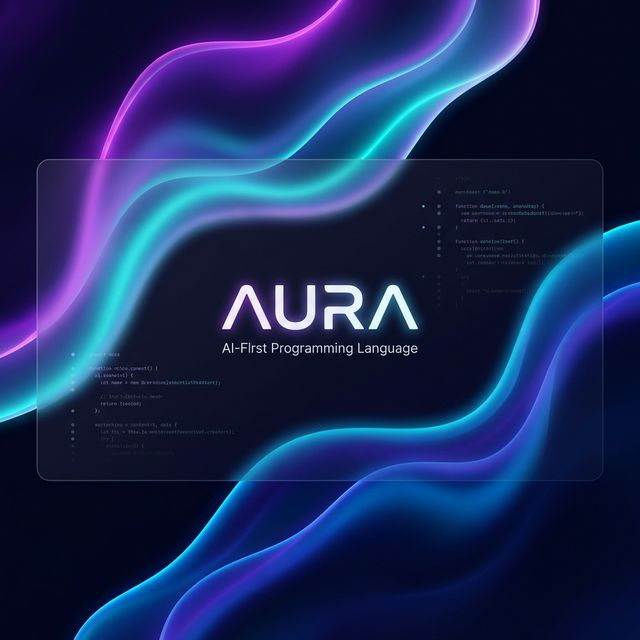
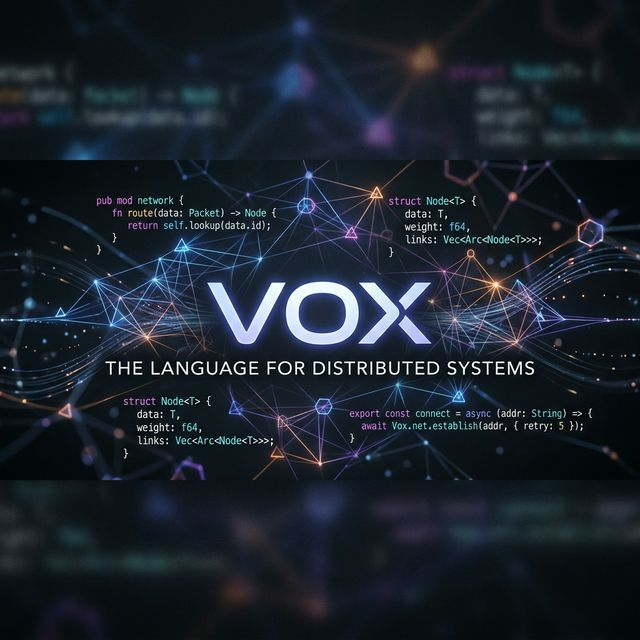
chore: migrate github remote namespace from brbrainerd to vox-foundation codebase-wide

diff --git a/crates/vox-runtime/src/populi.rs b/crates/vox-runtime/src/populi.rs
@@ -5,7 +5,7 @@
 //!
 //! ## Modes
 //! - **Local**: `http://localhost:11434` (Ollama-compatible API)
-//! - **Remote**: `https://raw.githubusercontent.com/brbrainerd/vox/main/populi` (configurable)
+//! - **Remote**: `https://raw.githubusercontent.com/vox-foundation/vox/main/populi` (configurable)
 
 use serde::{Deserialize, Serialize};
 use thiserror::Error;
@@ -33,7 +33,7 @@ pub enum PopuliError {
 /// Configuration for connecting to Populi.
 #[derive(Debug, Clone)]
 pub struct PopuliConfig {
-    /// Base URL of the Populi API (e.g., `http://localhost:11434` or `https://raw.githubusercontent.com/brbrainerd/vox/main/populi`).
+    /// Base URL of the Populi API (e.g., `http://localhost:11434` or `https://raw.githubusercontent.com/vox-foundation/vox/main/populi`).
     pub base_url: String,
     /// Optional API key for remote authentication.
     pub api_key: Option<String>,

diff --git a/crates/vox-cli/src/commands/diagnostics/doctor/checks_standard.rs b/crates/vox-cli/src/commands/diagnostics/doctor/checks_standard.rs
@@ -370,7 +370,7 @@ pub async fn run_checks(auto_heal: bool, test_health: bool, checks: &mut Vec<Che
     {
         println!("  [auto-heal] Creating default Vox configuration...");
         let _ = tokio::fs::create_dir_all(dir).await;
-        let default_config = "[registry]\nurl = \"https://raw.githubusercontent.com/brbrainerd/vox/main/registry\"\n";
+        let default_config = "[registry]\nurl = \"https://raw.githubusercontent.com/vox-foundation/vox/main/registry\"\n";
         if tokio::fs::write(dir.join("config.toml"), default_config)
             .await
             .is_ok()

diff --git a/crates/vox-cli/src/commands/diagnostics/tools/search.rs b/crates/vox-cli/src/commands/diagnostics/tools/search.rs
@@ -3,7 +3,7 @@ use anyhow::Result;
 /// `vox search <query>` — search the VoxPM registry for packages.
 pub async fn run(query: &str, registry_url: Option<&str>) -> Result<()> {
     let url =
-        registry_url.unwrap_or("https://raw.githubusercontent.com/brbrainerd/vox/main/registry");
+        registry_url.unwrap_or("https://raw.githubusercontent.com/vox-foundation/vox/main/registry");
     let client = vox_pm::RegistryClient::new(url);
 
     println!("Searching for `{query}`...\n");

diff --git a/crates/vox-cli/src/commands/info.rs b/crates/vox-cli/src/commands/info.rs
@@ -3,7 +3,7 @@ use anyhow::Result;
 /// `vox info <package>` — display package information.
 pub async fn run(package_name: &str, registry_url: Option<&str>) -> Result<()> {
     let url =
-        registry_url.unwrap_or("https://raw.githubusercontent.com/brbrainerd/vox/main/registry");
+        registry_url.unwrap_or("https://raw.githubusercontent.com/vox-foundation/vox/main/registry");
     let client = vox_pm::RegistryClient::new(url);
 
     match client.info(package_name).await {

diff --git a/crates/vox-cli/src/commands/login.rs b/crates/vox-cli/src/commands/login.rs
@@ -105,7 +105,7 @@ async fn interactive_wizard(default_registry: &str) -> Result<(String, String, O
         println!("  Get a key here: \x1b[36mhttps://openrouter.ai/settings/keys\x1b[0m");
     } else if registry == "voxpm" {
         println!("  \x1b[1mVoxPM\x1b[0m requires an API token to publish packages.");
-        println!("  Copy token from: \x1b[36mhttps://github.com/brbrainerd/vox/settings\x1b[0m");
+        println!("  Copy token from: \x1b[36mhttps://github.com/vox-foundation/vox/settings\x1b[0m");
     }
 
     println!();

diff --git a/crates/vox-cli/src/commands/publish.rs b/crates/vox-cli/src/commands/publish.rs
@@ -8,7 +8,7 @@ pub async fn run(registry_url: Option<&str>) -> Result<()> {
         .map_err(|e| anyhow::anyhow!("{e}"))
         .with_context(|| "No Vox.toml found. Nothing to publish.")?;
 
-    let url = registry_url.unwrap_or("https://raw.githubusercontent.com/brbrainerd/vox/main/registry");
+    let url = registry_url.unwrap_or("https://raw.githubusercontent.com/vox-foundation/vox/main/registry");
 
     // Read auth token
     let token_path = dirs_path().join("auth_token");

diff --git a/crates/vox-cli/src/commands/search.rs b/crates/vox-cli/src/commands/search.rs
@@ -2,7 +2,7 @@ use anyhow::Result;
 
 /// `vox search <query>` — search the VoxPM registry for packages.
 pub async fn run(query: &str, registry_url: Option<&str>) -> Result<()> {
-    let url = registry_url.unwrap_or("https://raw.githubusercontent.com/brbrainerd/vox/main/registry");
+    let url = registry_url.unwrap_or("https://raw.githubusercontent.com/vox-foundation/vox/main/registry");
     let client = vox_pm::RegistryClient::new(url);
 
     println!("Searching for `{query}`...\n");

diff --git a/crates/vox-ludus/src/ai.rs b/crates/vox-ludus/src/ai.rs
@@ -512,7 +512,7 @@ impl FreeAiClient {
             match http
                 .post(OPENROUTER_BASE)
                 .header("Authorization", format!("Bearer {}", resolved_key))
-                .header("HTTP-Referer", "https://github.com/brbrainerd/vox")
+                .header("HTTP-Referer", "https://github.com/vox-foundation/vox")
                 .header("X-Title", "Vox Gamify")
                 .json(&body)
                 .send()

diff --git a/crates/vox-skills/src/lib.rs b/crates/vox-skills/src/lib.rs
@@ -37,7 +37,7 @@ pub use registry::{InstallResult, SkillRegistry, UninstallResult};
 
 /// The canonical Vox Skills marketplace registry URL.
 pub const SKILLS_REGISTRY_BASE: &str =
-    "https://raw.githubusercontent.com/brbrainerd/vox/main/skills";
+    "https://raw.githubusercontent.com/vox-foundation/vox/main/skills";
 
 /// Errors from the skill system.
 #[derive(Debug, thiserror::Error)]

diff --git a/crates/vox-toestub/src/review/formatters.rs b/crates/vox-toestub/src/review/formatters.rs
@@ -126,7 +126,7 @@ pub fn format_sarif(result: &ReviewResult) -> String {
                 "id": format!("vox-review/{}", cat.rule_prefix()),
                 "name": cat.to_string(),
                 "shortDescription": { "text": format!("vox review: {}", cat) },
-                "helpUri": "https://github.com/brbrainerd/vox"
+                "helpUri": "https://github.com/vox-foundation/vox"
             })
         })
         .collect();

diff --git a/crates/vox-toestub/src/review/providers.rs b/crates/vox-toestub/src/review/providers.rs
@@ -64,7 +64,7 @@ pub fn default_openrouter_model() -> String {
 }
 /// `HTTP-Referer` value required by OpenRouter; embedded in serde defaults for configs.
 pub fn default_site_url() -> String {
-    "https://github.com/brbrainerd/vox".to_string()
+    "https://github.com/vox-foundation/vox".to_string()
 }
 /// Default OpenAI chat model when `OPENAI_MODEL` is unset.
 pub fn default_openai_model() -> String {

diff --git a/README.md b/README.md
@@ -1,42 +1,38 @@
 <div align="center">
   <img src="docs/src/assets/logo.png" alt="Vox Logo" width="200" height="auto" />
   <h1>Vox Programming Language</h1>
-  <p><strong>The Native Language of the AI Era.</strong></p>
+  <p><strong>A Full-Stack, AI-Native Systems Language.</strong></p>
 </div>
 
-<img src="docs/src/assets/hero_bg.png" alt="Vox Hero" width="100%" />
+<img src="docs/src/assets/hero_bg.png" alt="Vox Hero Banner" width="100%" />
 
 > *"Is it a fact — or have I dreamt it — that, by means of electricity, the world of matter has become a great nerve, vibrating thousands of miles in a breathless point of time? Rather, the round globe is a vast head, a brain, instinct with intelligence! Or, shall we say, it is itself a thought, nothing but thought, and no longer the substance which we deemed it!"*  
 > — **Nathaniel Hawthorne**, *The House of the Seven Gables* (1851)
 
 ---
 
-## The Vox Ecosystem
+## What is Vox?
 
-Vox is an aggressively type-safe, AI-native systems language that compiles directly into high-performance **Rust (Tokio/Axum)** on the backend and **TypeScript (React)** on the frontend. 
+Vox is a statically typed programming language that compiles to Rust (Tokio/Axum) for the backend and TypeScript (React) for the frontend. It is designed to combine system-level performance with the integrated developer experience of modern web frameworks. 
 
-But it’s far more than just a programming language. It is a unified, end-to-end framework designed from the ground up for small engineering teams and autonomous AI agents building modern, distributed, intelligence-driven software.
+By unifying the database schema, server logic, and user interface into a single syntax, Vox removes the boundary between the frontend and backend. It is explicitly designed to be easily generated and reasoned about by large language models, featuring minimal syntax and a strict type system.
 
-### Why Adopt Vox?
+### Ecosystem Components
 
-Vox solves the core friction points of modern development by unifying your entire stack. It is engineered both for exceptional developer ergonomics—reducing cognitive load for humans—and strict predictability—eliminating ambiguity for Large Language Models.
+Vox consists of three primary subsystems:
 
-Here are the dimensions that make the Vox ecosystem unmatched:
-
-- **Unmatched Developer Ergonomics**: Define your data schema, your frontend React components, and your backend server logic in a single, cohesive file. Avoid the boilerplate of GraphQL schemas, ORMs, and context-switching between different repositories.
-- **Vox Dei (Distributed Execution Intelligence)**: The orchestrator is built straight into the system. Vox Dei provides transparent agent-to-agent messaging protocols and real-time execution recording. Building complex, durable workflow orchestration is no longer an infrastructure challenge; it is a native language primitive. 
-- **Vox Populi (Native ML)**: Vox features a completely native Rust/Burn machine learning ecosystem. You can execute high-throughput inference, perform QLoRA fine-tuning, and coordinate model states directly from the language workspace, bridging the gap between application logic and raw tensor performance.
-- **Zero-Null Type Safety (No Bugs)**: `null` and `undefined` states are unconditionally banned. Vox enforces rigorous, exhaustive pattern matching via Algebraic Data Types (ADTs) and `Option[T]`. This absolutely guarantees no sudden runtime NPE crashes, creating an ironclad predictability contract that ensures AI coding agents output flawless syntax.
-- **A Fully-Loaded CLI Hub**: The `vox` CLI acts as your command center. Access instantaneous local live-reloading (`vox build`), compile highly-optimized statically linked applications (`vox bundle`), trace execution routes, and manage LLM data pipelines all from one terminal window.
+1. **The Core Language**: A unified syntax with Algebraic Data Types (ADTs) and exhaustiveness checking. Null values (`null`, `undefined`) are banned in favor of `Option[T]` and `Result[T, E]`. This prevents null pointer exceptions and provides a strict contract for code generation.
+2. **Vox Dei (Orchestrator)**: The runtime includes a distributed execution engine. It provides primitives for persistent state, retry mechanisms, and transparent agent-to-agent messaging. Workflows are durable by default, meaning execution state survives process restarts.
+3. **Vox Populi (Native ML)**: A native machine learning layer built on Rust and Burn. It allows you to run high-throughput inference and execute QLoRA fine-tuning directly from the CLI without depending on external Python toolchains.
 
 ---
 
-## Code That Looks Like Magic (v0.3 Brace Syntax)
+## Language Features by Example
 
-With the modernized v0.2/v0.3 brace syntax, writing code feels intuitive, lightweight, and structured. 
+The v0.2/v0.3 brace syntax uses explicit blocks and a clear separation of concerns within a single file. 
 
-### 1. Unified Types and Server Logic
-No external ORMs needed. Your types safely map to the embedded SQLite backend through the `db.` API.
+### 1. Data Layer and Backend Functions
+Vox replaces external ORMs and migration scripts with the `@table` decorator. Types are mapped directly to an embedded SQLite database, making the data store accessible natively via the built-in `db` module.
 
 ```vox
 type UserStatus = 
@@ -45,104 +41,115 @@ type UserStatus =
     | Pending
 
 @table type Task {
+    id: int
     title: str
     done: bool
+    status: UserStatus
 }
 
-@server fn toggle_task(id: int) to Result[Unit] {
-    let task = db.query_one("SELECT * FROM Task WHERE id = ?", id)
-    db.execute("UPDATE Task SET done = ? WHERE id = ?", !task.done, id)
+// Server functions compile to Axum HTTP endpoints.
+@server fn toggle_task(task_id: int) to Result[Unit] {
+    let task = db.query_one("SELECT * FROM Task WHERE id = ?", task_id)
+    db.execute("UPDATE Task SET done = ? WHERE id = ?", !task.done, task_id)
     ret Ok(())
 }
 ```
 
-### 2. Frontend Components and Clean Routing
-Components fluidly return JSX blocks without verbose `render` functions. Define your frontend layout alongside your logic, and attach top-level routes seamlessly.
+### 2. Frontend Reactivity
+Frontend components compile to React and emit zero-runtime CSS. Because the frontend and backend share the same type system, data fetching is type-safe by default.
 
 ```vox
 import react.use_state
 
-@component fn TaskItem(task: Task) to Element {
-    let (checked, set_checked) = use_state(task.done)
+// Components seamlessly call backend functions.
+@component fn TaskList(initial_tasks: List[Task]) to Element {
+    let (tasks, set_tasks) = use_state(initial_tasks)
     
-    <div class="task-ui">
-        <input 
-            type="checkbox" 
-            checked={checked} 
-            onChange={fn(_e) {
-                set_checked(!checked)
-                toggle_task(task.id)
-            }} 
-        />
-        <p>{task.title}</p>
+    <div class="container">
+        {tasks.map(fn(task) {
+            <div class="task-row">
+                <input 
+                    type="checkbox" 
+                    checked={task.done} 
+                    onChange={fn(_e) toggle_task(task.id)} 
+                />
+                <span>{task.title}</span>
+            </div>
+        })}
     </div>
 }
 
+// Route declarations map URLs to components.
 routes {
-    "/" to TaskItem
+    "/tasks" to TaskList
 }
 ```
 
-### 3. Agent Tooling and Durable Workflows
-An `activity` inside Vox is a durable step that reliably survives sudden process crashes. Concurrently, empowering an autonomous AI agent to access your backend logic is as trivial as attaching an `@mcp.tool` decorator for automated Model Context Protocol mapping.
+### 3. Durable Workflows and Agent Tooling
+Vox provides native decorators for long-running processes and AI integrations.
 
 ```vox
-// Automatically survives server drops via the Orchestrator
+// A @workflow creates a durable state machine. If the server crashes 
+// during `stripe.create_intent`, it will resume from that exact step 
+// upon restart, preventing duplicate charges.
 @workflow fn process_payment(amount: float) to Result[Receipt] {
     let intent = await stripe.create_intent(amount)
     let receipt = await finalize_transaction(intent)
     ret Ok(receipt)
 }
 
-// Instantly exported as a tool to the internal Vox Dei agent system
[email redacted] fn evaluate_system_health() to float {
-    ret system.cpu_usage() * 100.0
+// The @mcp.tool decorator automatically exposes the function 
+// to language models via the Model Context Protocol.
[email redacted] fn evaluate_system_health() to SystemMetrics {
+    ret system.get_metrics()
 }
 ```
 
 ---
 
-## Build and Deployment
+## Tooling and CLI
 
-Go from local iteration to a globally distributed native binary with incredible velocity.
+The `vox` CLI manages the entire lifecycle of your application, from local development to model training.
 
 ```bash
-# Iterative local development with instantaneous live-reload
+# Start the development server with live-reloading.
 vox build app.vox -o dist --watch
 
-# Compile an entirely independent, statically-linked binary containing Frontend + Backend + SQLite
+# Compile the application into a single, statically-linked binary.
+# This binary includes your frontend, backend, and the SQLite engine.
 vox bundle app.vox --release --target x86_64-unknown-linux-musl
 
-# Engage the Vox Populi native tensor capabilities directly
+# Train a model using the local Populi backend and QLoRA.
 vox populi train --backend qlora
 ```
 
 ### Installation
 
-Vox is designed in Rust for ultimate performance.
+Compile and install the CLI from source using Cargo:
 
 ```bash
-# Securely install directly via Cargo
+# Install the core compiler
 cargo install --path crates/vox-cli
 ```
 
-*Are you bootstrapping natively on Windows against Turso pipelines? Use `scripts/install.ps1` for an enforced toolchain configuration.* See the complete [Setup Instructions](docs/src/how-to-setup.md).
+*For Windows environments bootstrapping against Turso*: Use the included scripts `scripts/install.ps1` or `scripts/install.sh` to configure the required C-toolchain. See the [Setup Instructions](docs/src/how-to-setup.md).
 
 ---
 
-## Deep Dive Documentation
+## Architecture and Internals
 
-Delve into the underlying architecture. The compiler stack is built purely in Rust (Lexer `logos` ➔ Parser ➔ HIR Lowering ➔ Typeck ➔ Codegen backends).
+The compiler pipeline is written in Rust and operates through the following stages: Lexer (`logos`) ➔ Parser ➔ HIR Lowering ➔ Typeck ➔ Codegen backends.
 
-- **Architecture Roadmap & Guidelines:** [AGENTS.md](./AGENTS.md)
-- **Walking Through Your First Application:** [First App Documentation](docs/src/how-to/first-full-stack-app.md)
-- **Syntax and Coding Standard Corpus:** [STYLE.md](examples/STYLE.md)
+For deeper technical specifics:
+- **System Architecture:** [AGENTS.md](./AGENTS.md)
+- **First Application Walkthrough:** [First App Documentation](docs/src/how-to/first-full-stack-app.md)
+- **Syntax Corpus Details:** [STYLE.md](examples/STYLE.md)
 
 ---
 
-## Support and Open Source
+## License and Sponsorship
 
-Vox is proudly open-source under the **Apache-2.0** License. Help us build the unified technology stack of the AI era.
+Vox is open-source software, released under the **Apache-2.0** License. Contributions and sponsorships help sustain the development of the toolchain:
 
-- 🌱 [Sponsor us on GitHub](https://github.com/sponsors)
-- ☕ [Support the Vox Engineering Team on Open Collective](https://opencollective.com)
+- [Sponsor on GitHub](https://github.com/sponsors/brbrainerd) <!-- Update to specific GitHub Sponsor link if needed -->
+- [Support on Open Collective](https://opencollective.com/vox-lang) <!-- Update to specific Open Collective link if needed -->